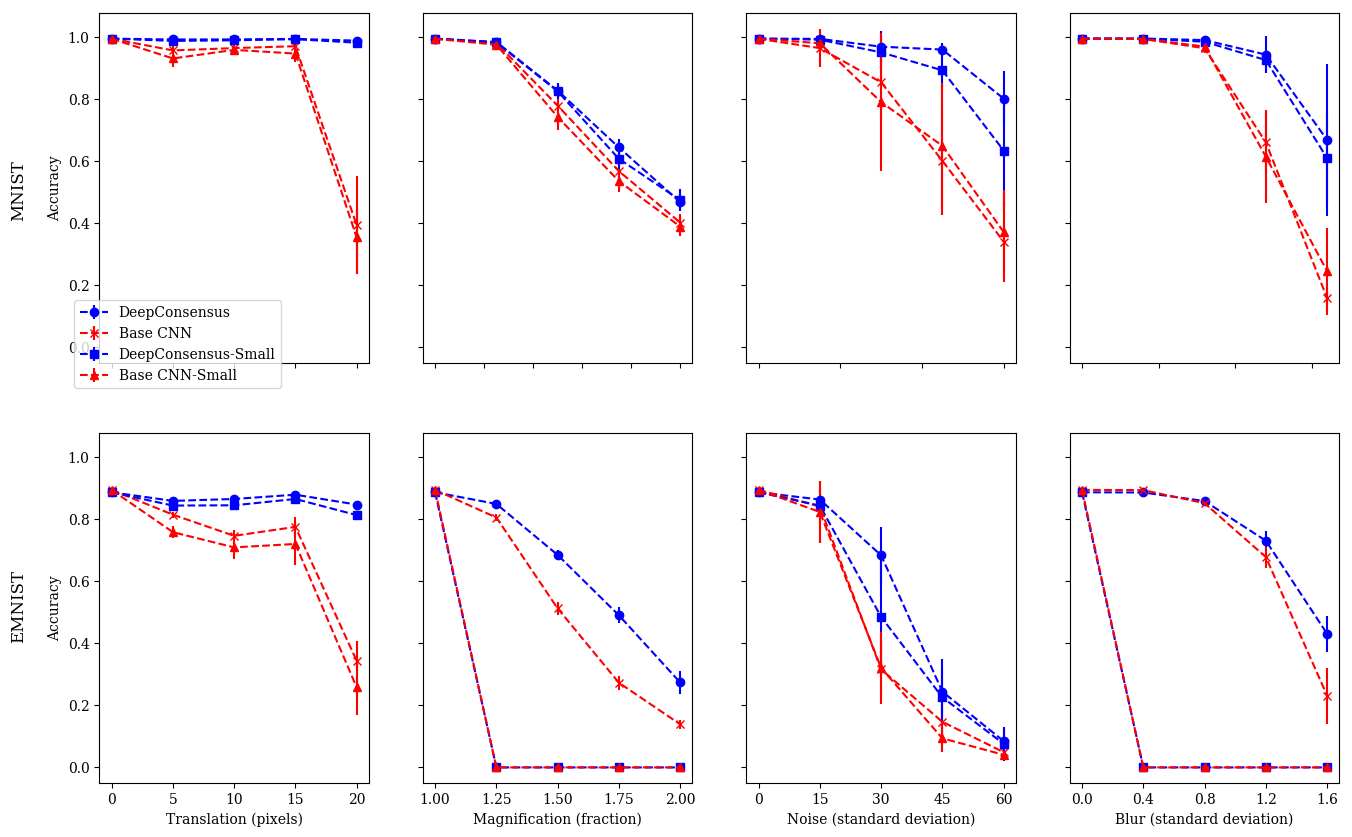
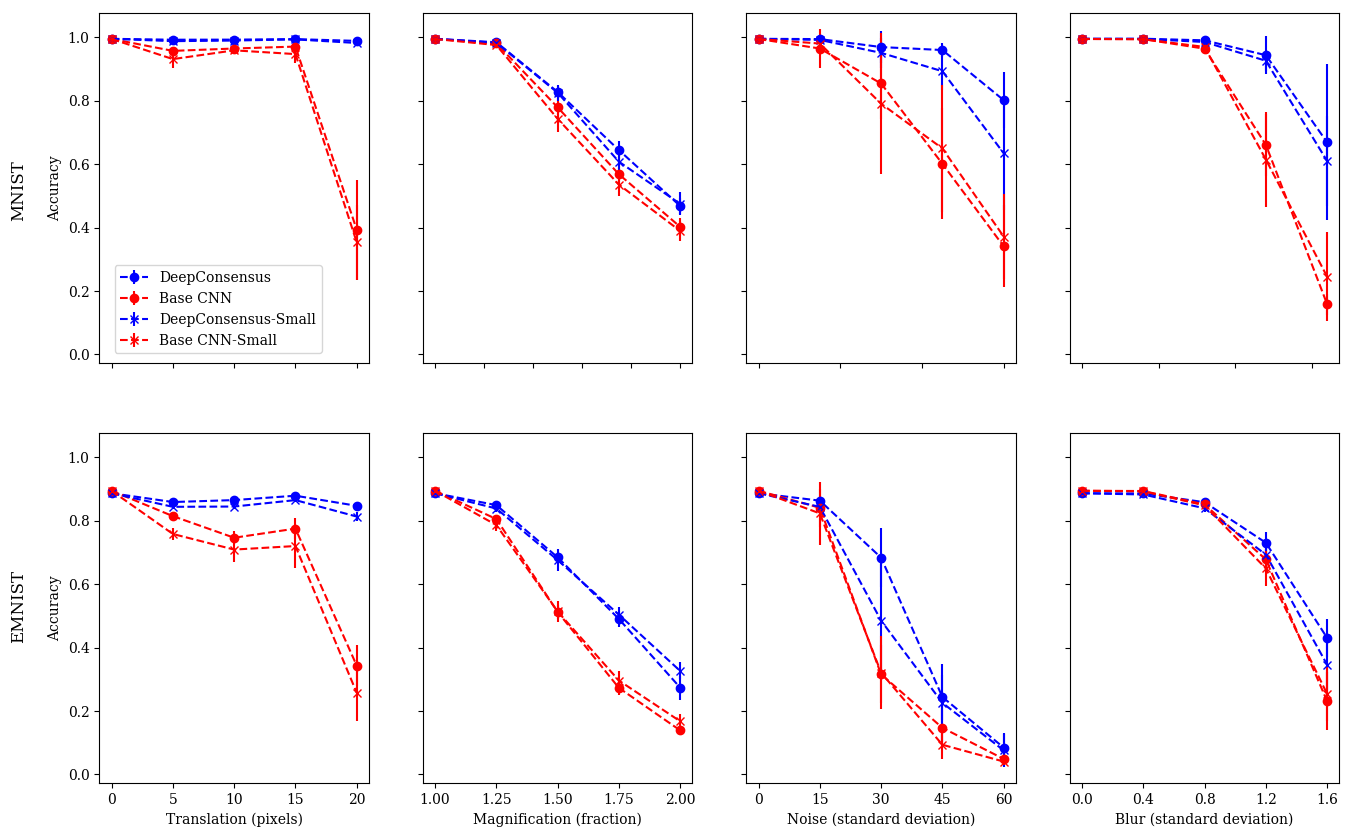
Allowed commandline control of reloading initialization

diff --git a/src/ttest.py b/src/ttest.py
@@ -1,0 +1,37 @@
+import os, json, statistics
+import scipy.stats
+from matplotlib import pyplot, lines
+
+def load(jf):
+    return json.load(open(jf))
+
+def analyze_folder(folder):
+    c = os.path.join(folder, "c.json")
+    d = os.path.join(folder, "d.json")
+    c, d = load(c), load(d)
+    return scipy.stats.ttest_ind(d, c, equal_var=False), c, d
+
+import misc
+
+@misc.main
+def analyze():
+    pyplot.rcParams["font.family"] = "serif"
+
+    ROOT = "results/trials50x/results/"
+    
+    for ftype in sorted(os.listdir(ROOT)):
+        print(ftype)
+        ttest, c, d = analyze_folder(os.path.join(ROOT, ftype))
+        print(ttest)
+        miu_c = statistics.mean(c)
+        miu_d = statistics.mean(d)
+        std_c = statistics.stdev(c)
+        std_d = statistics.stdev(d)
+        pyplot.errorbar([ftype + " res", ftype + " dc+res"], [miu_c, miu_d], yerr=[std_c, std_d], fmt="o--")
+    
+    pyplot.xticks(rotation=30)
+    pyplot.ylabel("Accuracy")
+#    dc = lines.Line2D([], [], color="b", marker="o", label="DeepConsensus-ResNet")
+#    gc = lines.Line2D([], [], color="r", marker="x", label="Base ResNet")
+#    pyplot.legend(handles=[dc, gc])
+    pyplot.savefig("resnet-trails50x.png", bbox_inches="tight")

diff --git a/src/comparison.py b/src/comparison.py
@@ -49,7 +49,7 @@ def plot():
             plt.tick_params(labelbottom=False)
             for mtype in [DC, CN, DC+SMALL, CN+SMALL]:
                 mdata = perturb[mtype]
-                p = {DC:"bo", CN:"rx", DC+SMALL: "bs", CN+SMALL: "r^"}[mtype]
+                p = {DC:"bo", CN:"ro", DC+SMALL: "bx", CN+SMALL: "rx"}[mtype]
                 plt.errorbar(paxis, mdata[MIU], yerr=mdata[STD], fmt=p + "--")
     
     for c in range(num_dsets):
@@ -66,7 +66,7 @@ def plot():
         plt.tick_params(labelbottom=True)
         plt.set_xticks(paxis)
     
-    axes[0, 0].legend(["DeepConsensus", "Base CNN", "DeepConsensus-Small", "Base CNN-Small"], bbox_to_anchor=[0.7, 0.2])
+    axes[0, 0].legend(["DeepConsensus", "Base CNN", "DeepConsensus-Small", "Base CNN-Small"], bbox_to_anchor=[0.85, 0.3])
     
     pyplot.savefig("results.png", bbox_inches="tight")
 

diff --git a/src/train.py b/src/train.py
@@ -30,10 +30,13 @@ def collect_answer(model, image):
     val, idx = yh.squeeze().max(dim=0)
     print(idx.item(), val.item())
 
+MODEL_INIT = None
+
 def main(
     modelf,
     dataset,
     epochs,
+    sameinit=0,
     testset="",
     swaptest=0,
     swaptrain=0,
@@ -77,6 +80,7 @@ def main(
     showparams = int(showparams)
     usefake = int(usefake)
     foolsamples = int(foolsamples)
+    sameinit = int(sameinit)
     
     DATASETS = {
         "mnist": misc.data.get_mnist,
@@ -141,6 +145,13 @@ def main(
         p = normp,
         alpha = alpha
     )
+    
+    if sameinit:
+        global MODEL_INIT
+        if MODEL_INIT is None:
+            MODEL_INIT = model.state_dict()
+        else:
+            model.load_state_dict(MODEL_INIT)
     
     print_("Using %s" % str(model.__class__), silent)
     
